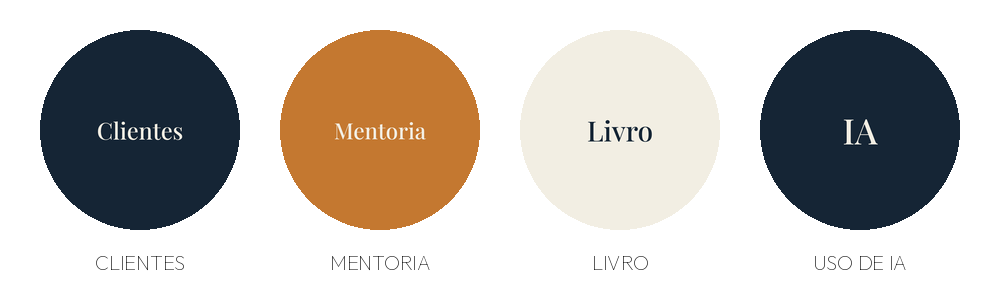
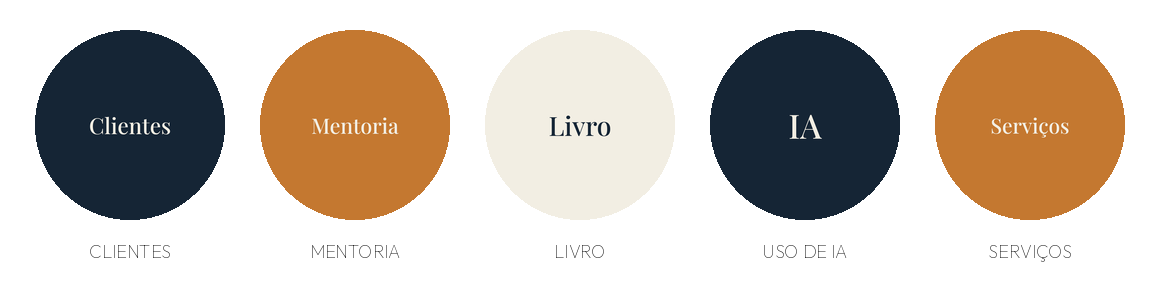
Acrescenta a capa de destaque SERVICOS
Quinta capa, seguindo o ciclo de cor de tres (marinho, caramelo, papel):
depois do marinho de IA vem caramelo. Previa da fileira atualizada com as
cinco — e em circulo que a peca se julga, nao em 1080x1920.

Claude-Session: https://claude.ai/code/session_015YunUeG4gdRR6urYHdkvAD

diff --git a/arte/capas-destaques-ka.html b/arte/capas-destaques-ka.html
@@ -58,6 +58,7 @@ body{background:#d9d9d9;display:flex;flex-wrap:wrap;gap:20px;justify-content:cen
 <div class="capa fundo-caramelo"><div class="miolo"><div class="palavra" style="--corpo:120px">Mentoria</div></div></div>
 <div class="capa fundo-papel"><div class="miolo"><div class="palavra" style="--corpo:150px">Livro</div></div></div>
 <div class="capa fundo-marinho"><div class="miolo"><div class="palavra" style="--corpo:190px">IA</div></div></div>
+<div class="capa fundo-caramelo"><div class="miolo"><div class="palavra" style="--corpo:118px">Serviços</div></div></div>
 
 <!-- ============ OPÇÃO B · O MONOGRAMA ============ -->
 <div class="capa capa--mono fundo-marinho"><div class="miolo">

diff --git a/arte/destaques/LEIA-ME.md b/arte/destaques/LEIA-ME.md
@@ -4,15 +4,18 @@ Duas opções, 1080×1920, prontas para subir como capa de destaque.
 
 | Opção | Arquivos | O que a fileira vira |
 |---|---|---|
-| **A · a palavra** | `opcao-a-1..4-*.png` | um índice: cada capa diz o assunto |
+| **A · a palavra** | `opcao-a-1..5-*.png` | um índice: cada capa diz o assunto |
 | **B · o monograma** | `opcao-b-1..4.png` | um bloco de marca: o rótulo do Instagram faz o índice |
 
 Prévias da fileira montada: `previa-opcao-a.png` e `previa-opcao-b.png`.
 
 ## O que as duas têm em comum
 
-**Mesmo ritmo de cor:** marinho, caramelo, papel, marinho. Isso é de
+**Mesmo ritmo de cor:** marinho, caramelo, papel, e recomeça. Isso é de
 propósito — assim a escolha entre A e B é de **conteúdo**, não de tom.
+
+O ciclo é de três e se repete: por mais que a fileira cresça, ela mantém o
+ritmo. Suba na ordem dos arquivos; fora de ordem vira só círculo colorido.
 
 **Sistema visual master da KA**, de `ka-carrossel-educativo`:
 
